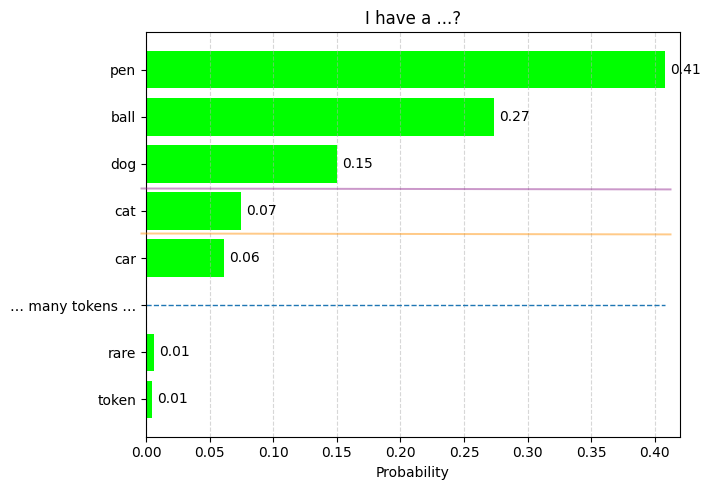
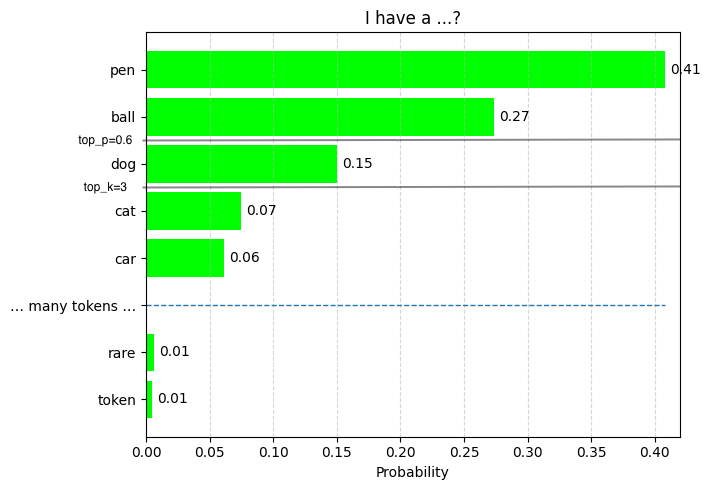
work

diff --git a/content/blog/llm_temperature/index.md b/content/blog/llm_temperature/index.md
@@ -38,12 +38,11 @@ p_i(T) \;=\; \frac{\exp\!\left(\tfrac{z_i}{T}\right)}
                   {\sum_{j=1}^K \exp\!\left(\tfrac{z_j}{T}\right)}
 $$
 
-Here's the effect of different temperature settings ($T=0.1, 1, 10$):
+Let's stop here for a moment and think about what this means. When $T=1$, the distribution is identical to the original softmax distribution. When $T \to \infty$, $p_i(T)$ approaches $\frac{1}{K}$, which is a uniform distribution over all tokens. When $T \to 0$, $p_i(T)$ approaches a one-hot distribution that puts all the probability mass on the token with the highest logit. This is called "**greedy decoding**," which deterministically picks the highest-probability token. [^1]
 
+You can see this effect in the figure below. Here's the effect of different temperature settings ($T=0.1, 1, 10$):
 
 ![Distribution of tokens (T=0.1, 1, 10)](2025-09-18-21-10-54.png)
-
-As you can see, higher temperatures (T > 1) flatten the distribution, putting more weight on rare tokens. On the other hand, lower temperatures (T < 1) make the distribution peakier, favoring high-probability tokens more strongly. In theory you cannot set $T=0$ because that would lead to division by zero; however, model providers interpret $T=0$ as "**greedy decoding**," which always picks the highest-probability token. [^1]
 
 Here's another visualization of how temperature affects the distribution:
 
@@ -51,26 +50,39 @@ Here's another visualization of how temperature affects the distribution:
 
 ## Recap of sampling strategies
 
-The above describes naive sampling, where you sample directly from the full softmax distribution. This can lead to incoherent or repetitive text, especially in long generations. To mitigate this, several sampling strategies have been developed:
+The above describes naive sampling, where you sample directly from the full softmax distribution. This can lead to incoherent or repetitive text, especially in long generations. To mitigate this, several sampling strategies have been developed.
 
 ### Top-k sampling
 
+![Top-k and top-p](top_pk.png)
 
-Top-k truncates the candidate pool to the top k tokens, then samples. It reduces crazy low-probability picks while keeping some variety. Fixed k can be brittle across contexts (flat vs. sharp distributions).  
+<div style="text-align: center;"><small>Top-k and top-p cut off the candidate tokens with the given threshold.</small></div>
 
-### Top-p (nucleus) sampling
+<br/>
 
-Top-p (aka nucleus) keeps the smallest set of tokens whose cumulative prob ≥ p, then samples. This adapts the pool size to uncertainty and often yields more natural, less degenerate text than beam or naive sampling.  
 
-![](top_pk.png)
+**Top-k sampling** truncates the candidate pool to the top k tokens, then samples. It reduces crazy low-probability picks while keeping some variety. However, choosing the optimal $k$ is challenging and can lead to abrupt cutoffs in the distribution.  
 
-### Beam search
+### Top-p sampling
 
-Beam search tracks multiple high-probability partial sequences and expands them step-by-step, returning the best overall. Great for tasks like translation/summarization, but can over-optimize for likelihood and become repetitive in open-ended generation.  
+**Top-p sampling**, also known as **nucleus sampling**, adapts the token pool based on probability mass rather than a fixed count. Instead of picking the top $k$ tokens, it keeps the smallest set of tokens whose cumulative prob ≥ p, then samples. So `top_p=0.6` means only the tokens comprising the top 60% of the probability mass are considered. This adapts the pool size to uncertainty and often yields more natural, less degenerate text than naive sampling.
 
-### MCTS (Monte-Carlo Tree Search), conceptually
+### Sampling with search and re-ranking
 
-Instead of deciding one token at a time with only local scores, MCTS searches a small tree of continuations and uses a learned value or discriminator to guide rollouts toward globally better completions. It’s been shown to help with constrained or value-guided generation (e.g., polarity control, PPO value-guided decoding). It’s powerful but compute-heavy.  
+The above strategies sample one token at each position in the sequence, which can lead to locally optimal but globally suboptimal sequences. Is it possible to improve quality by considering multiple candidate sequences? Yes, through search and re-ranking.
+
+![Sampling with search and re-ranking](2025-09-20-17-49-57.png)
+
+<div style="text-align: center;"><small>Advanced sampling methods with search and re-ranking. Image taken from "<a href="https://arxiv.org/abs/2408.03314v1">Scaling LLM Test-Time Compute Optimally can be More Effective than Scaling Model Parameters</a>."
+</small></div>
+
+<br/>
+
+**Best-of-N sampling** is the simplest form of such an approach: generate $N$ independent samples and pick the best one according to some scoring function (e.g., **perplexity**, or a separate value function ("verifier")). This can improve quality but is more computationally expensive.
+
+**Beam search** keeps track of the top $B$ candidate sequences (beams) at each step, expanding each beam with all possible next tokens and retaining only the top $B$ overall. This allows the model to explore multiple paths and can yield higher-quality text.
+
+**Lookahead search** goes even further by simulating multiple future steps for each candidate token, estimating the long-term value of each choice. This is more computationally intensive but can significantly improve coherence and relevance.
 
 ## So why are the knobs disabled on reasoning models?
 
